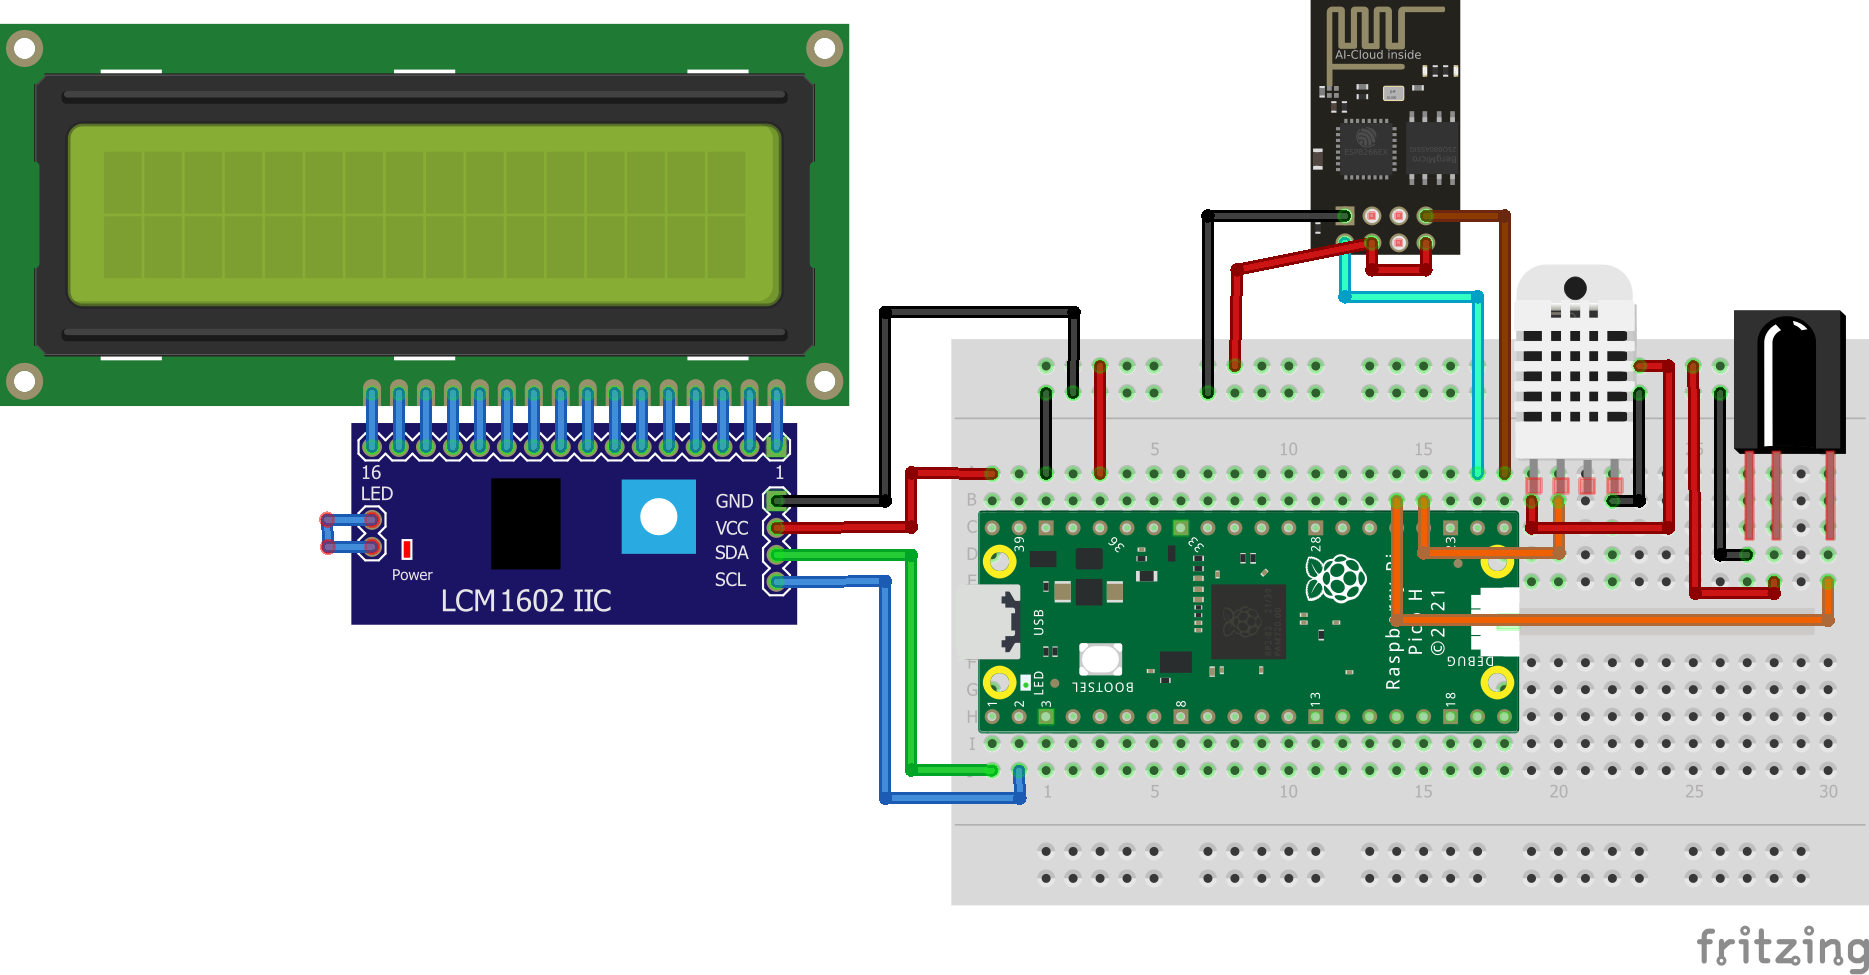
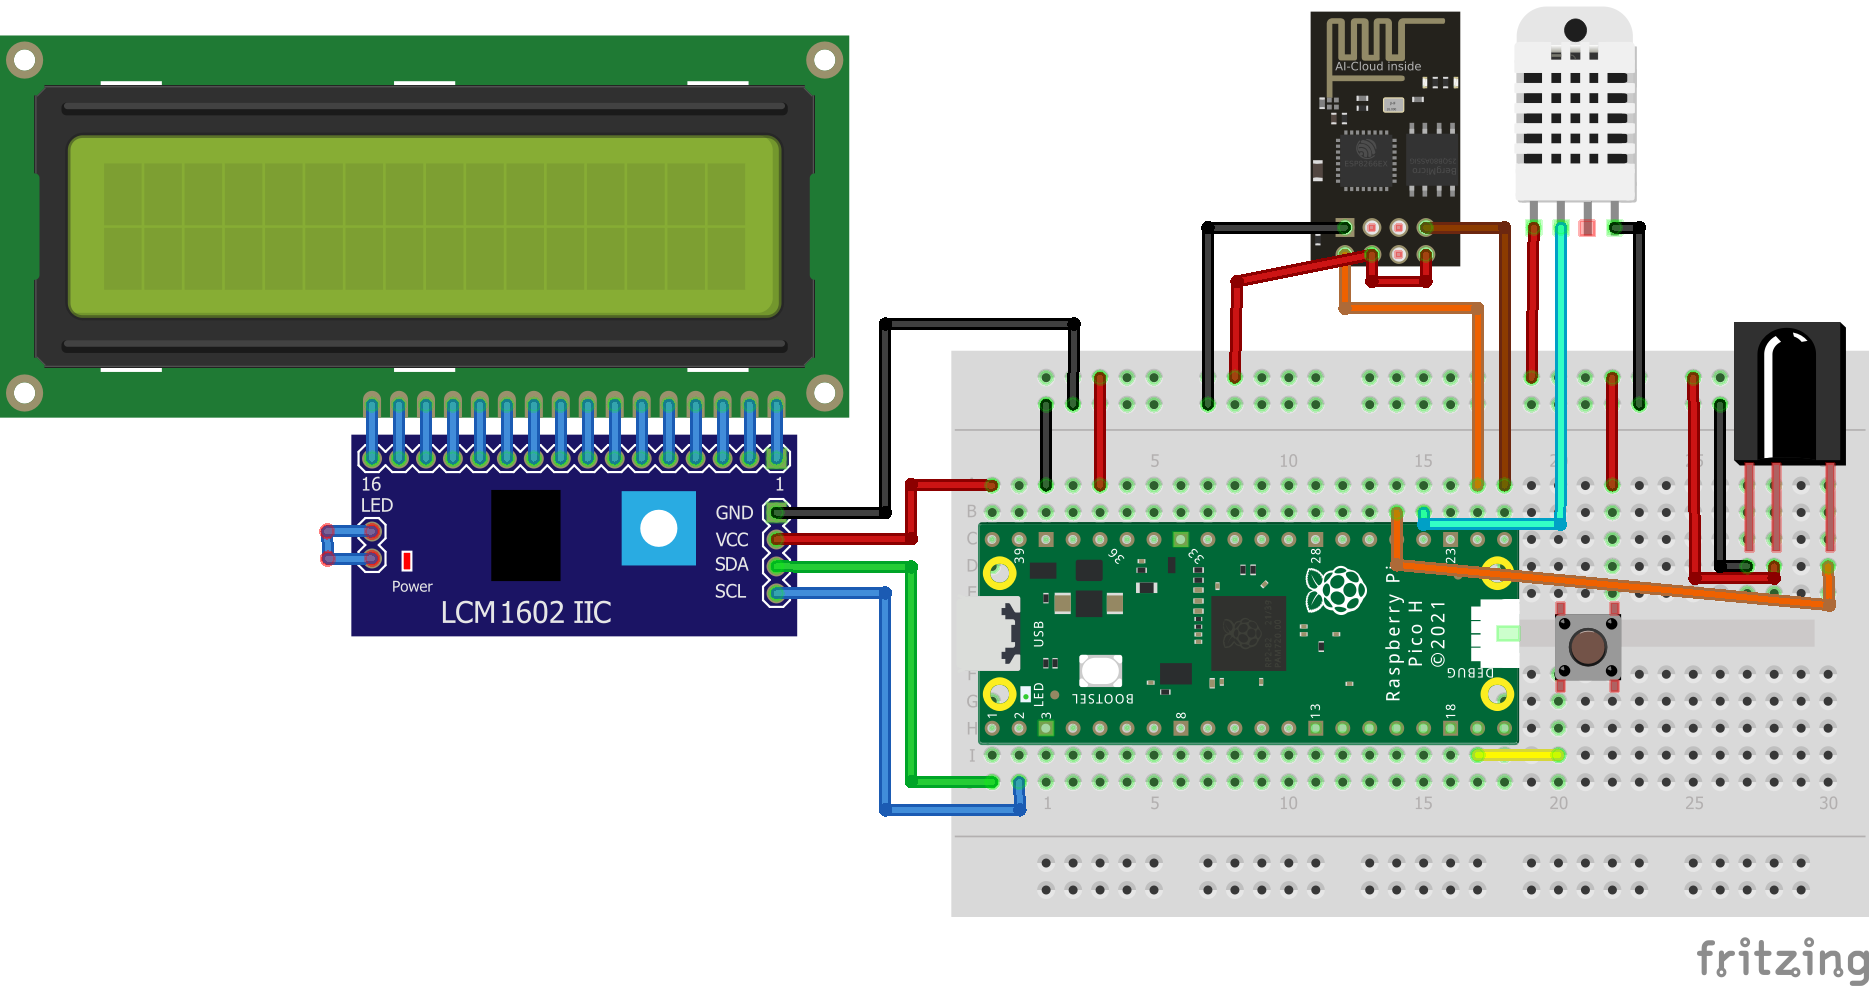
Admin Button

diff --git a/classess/admin_mode_main.py b/classess/admin_mode_main.py
@@ -1,0 +1,69 @@
+import time
+
+def admin_main(e, lcd):
+    e.setCurrentWiFiMode(2)
+    e._sendToESP8266('AT+CWSAP="stacjapogodowa","",11,0,3\r\n')
+    e._sendToESP8266('AT+CIPMUX=1\r\n')
+    print("Server: "+str(e._sendToESP8266('AT+CIPSERVER=1,8000\r\n')))
+    uart = e.__uartObj
+    ip = str(e._sendToESP8266("AT+CIPAP?\r\n"))[13:24]
+    print("IP = "+ip)
+    lcd.clear()
+    lcd.putstr("ADMIN\n"+ip+":8000")
+    SERVER_LOOP= True
+    
+    while SERVER_LOOP:
+        read = uart.read(2000)
+        if read is not None and "+IPD" in read:
+            post_args = None
+            try:
+                _FIRST = str(read).index("GET /") + 4
+            except ValueError:
+                post_args = {}
+                all_args = str(read).split('\\r\\n')
+                for i, arg in enumerate(all_args):
+                    if "ssid" in arg and "pwd" in arg:
+                        print(str(arg)[:-1])
+                        arg=arg[:-1]
+                        for a in arg.split('&'):
+                            info = a.split('=')
+                            post_args[info[0]]=info[1]
+                        break
+                
+                _FIRST = str(read).index("POST /") + 5
+            _LAST = str(read).index("HTTP/1.1")-1
+            URL = str(read)[_FIRST:_LAST]
+            print(f"URL '{URL}'")
+            if URL=='/end':
+                SERVER_LOOP=False
+            if URL=='/wifi':
+                if post_args is None:
+                    
+                    try:
+                        netinfo = open("netinfo.txt","r")
+                        net_lines = netinfo.read().split('\n')
+                        netinfo.close()
+                    except OSError:
+                        net_lines = ['BRAK', 'BRAK']
+                    
+                    HTML_CONTENT = f"<html><head><meta charset='utf-8'><meta name='viewport' content='width=device-width, initial-scale=1, shrink-to-fit=no'><title>Stacja pogodowa</title></head><body bgcolor='gray' style='color: black'><h1>WiFi</h1><form method='POST' action='/wifi'><label>SSID</label><input value={net_lines[0]} name='ssid' type='text'/><br><label>HASLO</label><input value={net_lines[1]} name='pwd' type='text'/><br></br><button type='submit'><h2>Zapisz</h2></button></form></body></html>"        
+                    HTML_SENDER = f'HTTP/1.1 200 OK\r\nContent-Type: text/html;charset=UTF-8\r\nConnection: close\r\n\r\n<!DOCTYPE HTML>\r\n{HTML_CONTENT}\r\n\r\n'
+                else:
+                    netinfo = open("netinfo.txt",'w')
+                    netinfo.write(f"{post_args['ssid']}\n{post_args['pwd']}")
+                    netinfo.close()
+                    HTML_SENDER = "HTTP/1.1 302  Found\r\nLocation: \ \r\n\r\n"
+                time.sleep(0.1)
+                uart.write(f'AT+CIPSEND=0,{len(HTML_SENDER)}\r\n')
+                time.sleep(0.1)
+                uart.write(HTML_SENDER)
+            else:         
+                HTML_CONTENT = f"<html><head><meta charset='utf-8'><meta name='viewport' content='width=device-width, initial-scale=1, shrink-to-fit=no'><title>Stacja pogodowa</title></head><body bgcolor='gray' style='color: black'><h1>ADMIN</h1><br><h3><a href='/wifi'>WiFi</a></h3><br><br><hr><br><a href='/end'><button><h2>Wylacz</h2></button></a></body></html>"        
+                HTML_SENDER = f'HTTP/1.1 200 OK\r\nContent-Type: text/html;charset=UTF-8\r\nConnection: close\r\n\r\n<!DOCTYPE HTML>\r\n{HTML_CONTENT}\r\n\r\n'
+                uart.write(f'AT+CIPSEND=0,{len(HTML_SENDER)}\r\n')
+                time.sleep(0.1)
+                uart.write(HTML_SENDER)
+            time.sleep(0.1)
+            uart.write('AT+CIPCLOSE=0\r\n')
+        time.sleep(.3)
+

diff --git a/main.py b/main.py
@@ -8,12 +8,11 @@ import json
 import _thread
 from classess.polskie_znaki import *
 from classess.http.esp8266 import ESP8266
-
+from classess.admin_mode_main import admin_main
 
 # dioda informacyjna
 led = Pin(25, Pin.OUT)
 led.off()
-
 
 
 # ekran
@@ -28,22 +27,6 @@ lcd.custom_char(3,e)
 lcd.custom_char(4,s)
 lcd.custom_char(5,c)
 
-
-
-# czujnik pogody
-rp2.PIO(0).remove_program() #?????
-sensor = DHT22(Pin(18,Pin.IN,Pin.PULL_UP))
-
-
-
-# czytanie lokalnego dodatku godziny z pliku g.txt
-godzina_local=0
-try:
-    f = open("g.txt","r+")
-    godzina_local = int(f.read())
-    f.close()
-except (OSError, ValueError):
-    godzina_local = 0
 
 
 
@@ -87,19 +70,49 @@ def ir_callback(data, addr, ctrl):
 ir = NEC(Pin(19, Pin.IN),ir_callback)
 
 
-# uruchamianie esp01
+
+
+
+
+# INICJACJA
 print("Init")
 lcd.putstr("Init")
+
+# guzik trybu administracyjnego
+admin_mode = False
+def set_admin_mode(button):
+    global admin_mode
+    if not admin_mode:
+        admin_mode = True
+
+button_admin = Pin(14, Pin.IN, Pin.PULL_DOWN)
+button_admin.irq(trigger=Pin.IRQ_FALLING, handler=set_admin_mode, hard=True)
+
+# uruchamianie esp01
 esp01 = ESP8266(txPin=(16), rxPin=(17))
 esp8266_at_ver = None
 
-print("Start",esp01.reStart())
+print("Start",esp01.reStart())#esp01.startUP())
 print("Wyłączam echo",esp01.echoING())
 print("\r\n\r\n")
 
 esp8266_at_ver = esp01.getVersion()
 if(esp8266_at_ver != None):
     print(esp8266_at_ver)
+    time.sleep(0.5)
+
+
+button_admin.irq(trigger=0)
+if admin_mode:# or not admin_mode:
+    print("\n###                     ###\n### TRYB ADMINISTRATORA ###\n###                     ###\n")
+    admin_main(esp01, lcd)
+    print("\n###            ###\n### ZAKOŃCZONO ###\n###            ###\n")
+    lcd.clear()
+    lcd.putstr("Re Init")
+    print("Restart",esp01.reStart())
+    print("Wyłączam echo",esp01.echoING())
+    print("\r\n\r\n")
+
 
 esp01.setCurrentWiFiMode(1)
 print("\r\n\r\nŁączę z WiFi...")
@@ -169,11 +182,28 @@ def update_connection_mark():
         lcd.putchar('X')
     else:
         lcd.putchar(chr(0))
-        
+
+
+
+# czytanie lokalnego dodatku godziny z pliku g.txt
+godzina_local=0
+try:
+    f = open("g.txt","r+")
+    godzina_local = int(f.read())
+    f.close()
+except (OSError, ValueError):
+    godzina_local = 0
+
+
 godzinaIsSet = False
 download_and_set_time(True)
 
 
+
+        
+# czujnik pogody
+rp2.PIO(0).remove_program() #?????
+sensor = DHT22(Pin(18,Pin.IN,Pin.PULL_UP))
 
 
 # program
@@ -227,10 +257,10 @@ while True:
             HTML_SENDER = f'HTTP/1.1 200 OK\r\nContent-Type: application/json;charset=UTF-8\r\nConnection: close\r\n\r\n{HTML_CONTENT}\r\n\r\n'
         else:
             HTML_CONTENT = f"<html><head><meta charset='utf-8'><meta name='viewport' content='width=device-width, initial-scale=1, shrink-to-fit=no'><title>Stacja pogodowa</title></head><body bgcolor='gray' style='color: black'><h1>Temperatura: {temp} &#xb0;C</h1><h1>Wilgotnosc: {wilg} %</h1><hr><a href='/api'><button><h2>API</h2></button></a></body></html>"        
-            HTML_SENDER = f'GET HTTP/1.1 200 OK\r\nContent-Type: text/html;charset=UTF-8\r\nConnection: close\r\n\r\n<!DOCTYPE HTML>\r\n{HTML_CONTENT}\r\n\r\n'
+            HTML_SENDER = f'HTTP/1.1 200 OK\r\nContent-Type: text/html;charset=UTF-8\r\nConnection: close\r\n\r\n<!DOCTYPE HTML>\r\n{HTML_CONTENT}\r\n\r\n'
         uart.write(f'AT+CIPSEND=0,{len(HTML_SENDER)}\r\n')
         time.sleep(0.1)
         uart.write(HTML_SENDER)
         time.sleep(0.1)
         uart.write('AT+CIPCLOSE=0\r\n')
-    time.sleep(.2)
+    time.sleep(.8)

diff --git a/classess/zegar.py b/classess/zegar.py
@@ -20,3 +20,4 @@ class Zegar:
     def __str__(self):
         return "{0:02d}:{1:02d}:{2:02d}".format(self.godzina,self.minuta,self.sekunda)
     
+

diff --git a/README.md b/README.md
@@ -29,10 +29,3 @@ Projekt wykorzystuje:
 
 # Diagram połączenia
 ![diagram połączenia](img/stacja_pogodowa.png)
-
-
-# Inicjacja
-W głównym folderze Pico powinien znajdować się folder ```netinfo.txt```, który w pierwszej lini zawiera SSID i drugiej hasło do naszego WiFi:
->SSID
->
->HASŁO   
